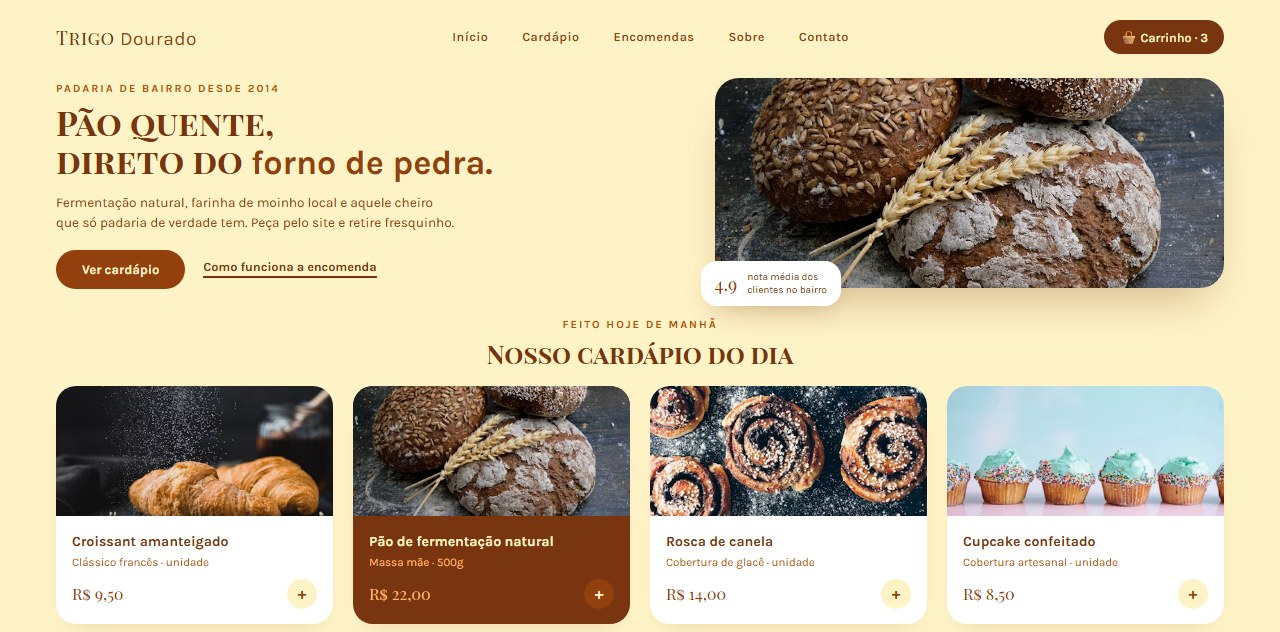
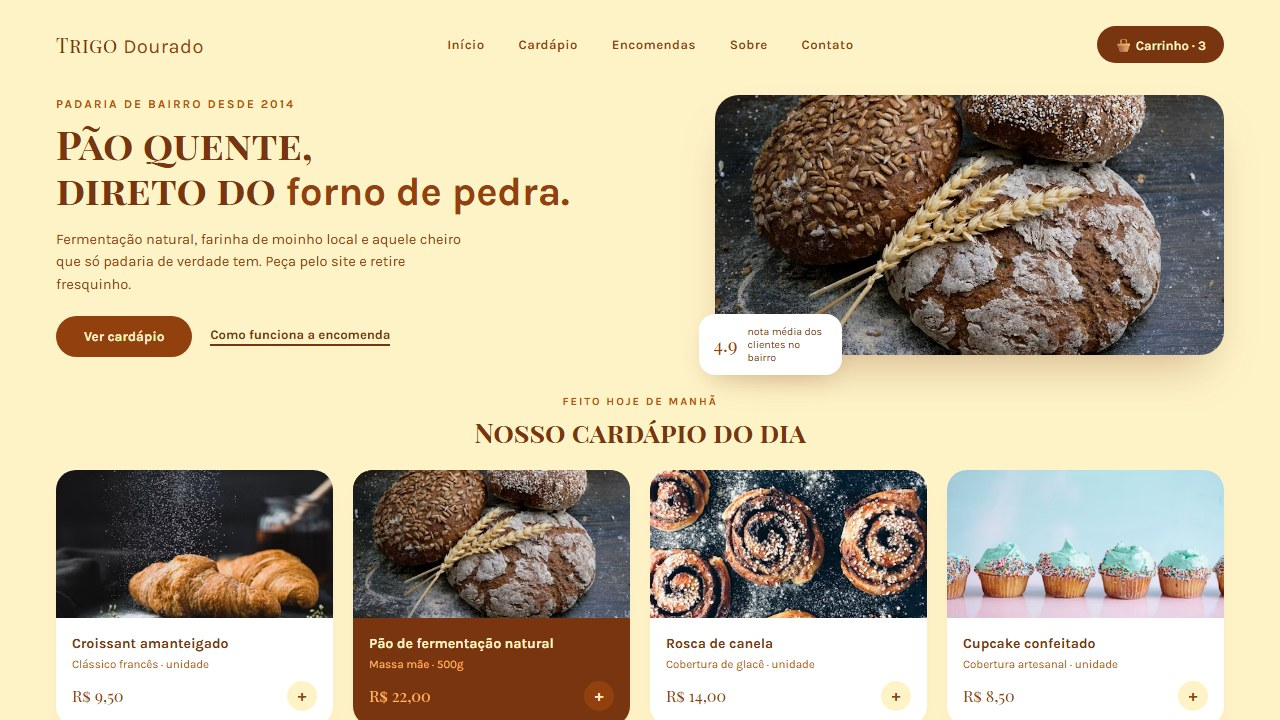
fix: padronizar moldura e mockups para 16:9 em qualquer resolução
A moldura do tablet usava alturas fixas por breakpoint (26rem/36rem)
enquanto a largura era fluida, então a proporção da "tela" mudava
dependendo da largura da viewport — em celular e tablet sobravam
bordas vazias que não apareciam no teste em desktop.

- Moldura agora usa aspect-video (16:9) fluido, mantendo a mesma
  proporção em qualquer resolução (celular, tablet, desktop, TV).
- Os 3 mockups (site, dashboard, padaria) foram recapturados/
  recompostos exatamente em 16:9, preenchendo a moldura por completo
  sem cortar conteúdo, em vez de depender de crops arriscados.

diff --git a/src/components/ui/container-scroll-animation.tsx b/src/components/ui/container-scroll-animation.tsx
@@ -85,7 +85,7 @@ export const Card = ({
         boxShadow:
           "0 0 #0000004d, 0 9px 20px #0000004a, 0 37px 37px #00000042, 0 84px 50px #00000026, 0 149px 60px #0000000a, 0 0 60px 6px rgba(124,58,237,0.25)",
       }}
-      className="mx-auto -mt-12 h-[26rem] w-full max-w-5xl rounded-[30px] border-4 border-primary/25 bg-black p-2 md:h-[36rem] md:p-6"
+      className="mx-auto -mt-12 aspect-video w-full max-w-5xl rounded-[30px] border-4 border-primary/25 bg-black p-2 md:p-6"
     >
       <div className="h-full w-full overflow-hidden rounded-2xl bg-bg">
         {children}

diff --git a/src/lib/constants.ts b/src/lib/constants.ts
@@ -82,12 +82,12 @@ export const HOW_IT_WORKS = [
 // de como fica cada entrega. Serão trocados por prints reais conforme os projetos entregues.
 export const SHOWCASE_IMAGES = [
   {
-    src: "/screenshots/site.png",
+    src: "/screenshots/site.jpg",
     alt: "Mockup ilustrativo de um site institucional com catálogo de serviços",
     label: "Site",
   },
   {
-    src: "/screenshots/dashboard.png",
+    src: "/screenshots/dashboard.jpg",
     alt: "Mockup ilustrativo de um dashboard com gráficos e automação de lembretes",
     label: "Dashboard",
   },
